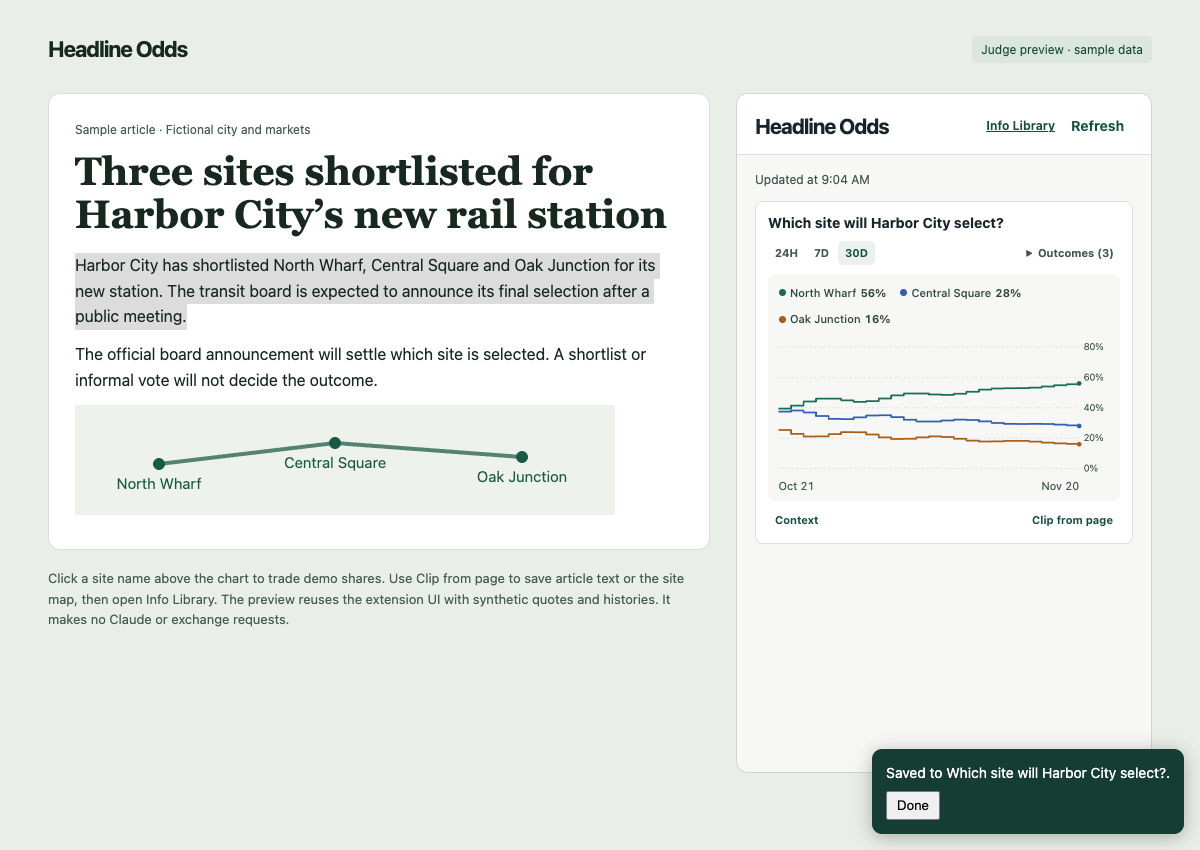
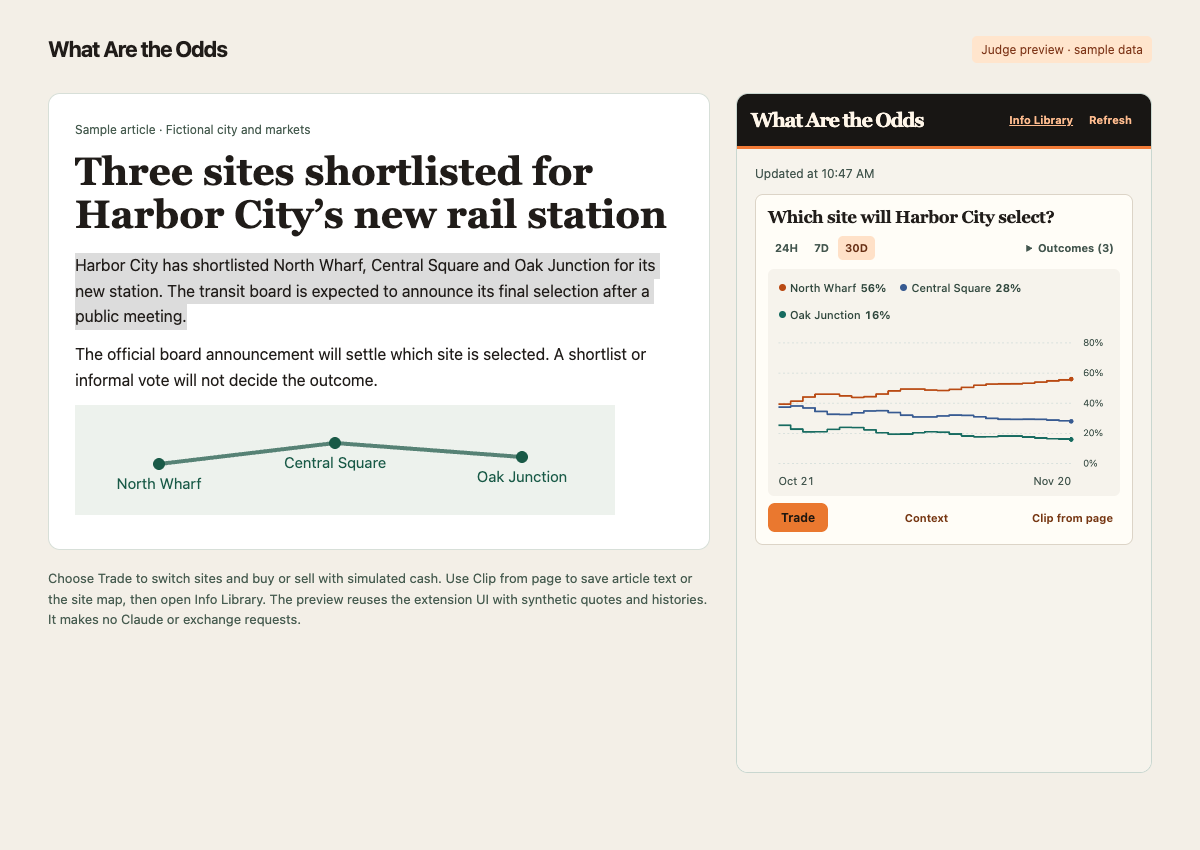
Rename to What Are the Odds and add a compact switchable trade panel

diff --git a/popup.js b/popup.js
@@ -88,10 +88,7 @@ function updateChart(slot) {
     const button = element('button', '', 'legend-button');
     button.title = 'Trade · ' + label;
     button.append(name, odds);
-    button.onclick = () => {
-      slot.tradeItem = item;
-      tradeTicket(slot.ticket, slot.marketKey, item, price, slot.marketTitle);
-    };
+    button.onclick = () => slot.openTrade(item);
     row.append(button);
     return row;
   }));
@@ -101,7 +98,6 @@ function updateChart(slot) {
   else if (waiting && !hasLine) chart.textContent = 'Loading price history…';
   else renderChart(chart, lines, period);
 
-  if (!selected.includes(slot.tradeItem)) slot.ticket.hidden = true;
   slot.latest.hidden = !selected.length;
   chart.setAttribute('aria-busy', String(waiting));
 }
@@ -254,7 +250,34 @@ function renderMarket(market, histories, fetchedAt) {
   contextButton.setAttribute('aria-controls', back.id);
   contextButton.setAttribute('aria-expanded', 'false');
   const source = link('View source ↗', market.source);
-  footer.append(contextButton);
+  const trade = element('button','Trade','trade-toggle');
+  ticket.id = 'trade-' + market.id;
+  trade.setAttribute('aria-controls',ticket.id);
+  trade.setAttribute('aria-expanded','false');
+  const closeTrade = () => {
+    ticket.hidden = true;
+    trade.setAttribute('aria-expanded','false');
+    trade.focus({preventScroll:true});
+  };
+  slot.openTrade = item => {
+    for (const other of chartSlots.values()) {
+      if (other !== slot && !other.ticket.hidden) {
+        other.ticket.hidden = true;
+        other.tradeButton.setAttribute('aria-expanded','false');
+      }
+    }
+    slot.tradeItem = item;
+    const price = item.quote ?? rangeData(slot, DEFAULT_RANGE).points[item.key]?.at(-1)?.[1];
+    tradeTicket(ticket, marketKey, item, price, series, slot.openTrade, closeTrade);
+    trade.setAttribute('aria-expanded','true');
+  };
+  trade.onclick = () => {
+    if (ticket.hidden) slot.openTrade(slot.tradeItem || series.find(item => item.selected) || series[0]);
+    else closeTrade();
+  };
+  slot.tradeButton = trade;
+  trade.disabled = !series.length;
+  footer.append(trade,contextButton);
   const clip = element('button', 'Clip from page', 'context-button');
   clip.onclick = async () => {
     try {
@@ -271,7 +294,7 @@ function renderMarket(market, histories, fetchedAt) {
   };
   footer.append(clip);
   if (source) footer.append(source);
-  front.append(controls, plot, ticket, footer);
+  front.append(controls, plot, footer, ticket);
   contexts.bind({ card, front, back, contextButton, backButton, prepareContext: () => {
     if (!back.childElementCount) renderContext(market, back, backButton, source);
   } });

diff --git a/demo/index.html b/demo/index.html
@@ -3,15 +3,15 @@
 <head>
   <meta charset="utf-8">
   <meta name="viewport" content="width=device-width, initial-scale=1">
-  <title>Headline Odds | Judge Demo</title>
+  <title>What Are the Odds | Judge Demo</title>
   <style>
-    :root{font:16px/1.6 system-ui,sans-serif;color:#172821;background:#e9eee9}
+    :root{font:16px/1.6 system-ui,sans-serif;color:#201c19;background:#f3efe7}
     *{box-sizing:border-box}
     body{margin:0}
     .shell{max-width:1160px;margin:auto;padding:32px 28px}
     .demo-header{display:flex;align-items:center;justify-content:space-between;gap:16px;margin-bottom:26px}
     .brand{font-size:22px;font-weight:700;letter-spacing:-.04em}
-    .badge{font-size:12px;color:#164839;background:#dbe7de;border-radius:5px;padding:4px 9px}
+    .badge{font-size:12px;color:#7d3518;background:#ffe5cd;border-radius:5px;padding:4px 9px}
     .grid{display:grid;grid-template-columns:minmax(0,1fr) minmax(0,416px);gap:26px;align-items:start}
     article{padding:26px;border:1px solid #d7dfd8;background:#fff;border-radius:12px}
     article h1{font:600 clamp(25px,4vw,39px)/1.1 Georgia,serif;margin:6px 0 16px}
@@ -24,7 +24,7 @@
 </head>
 <body>
   <main class="shell">
-    <header class="demo-header"><div class="brand">Headline Odds</div><span class="badge">Judge preview · sample data</span></header>
+    <header class="demo-header"><div class="brand">What Are the Odds</div><span class="badge">Judge preview · sample data</span></header>
     <div class="grid">
       <div>
         <article>
@@ -34,9 +34,9 @@
           <p>The official board announcement will settle which site is selected. A shortlist or informal vote will not decide the outcome.</p>
         <img id="station-map" alt="Map of the three shortlisted station sites" style="max-width:100%">
         </article>
-        <p class="directions">Click a site name above the chart to trade demo shares. Use Clip from page to save article text or the site map, then open Info Library. The preview reuses the extension UI with synthetic quotes and histories. It makes no Claude or exchange requests.</p>
+        <p class="directions">Choose Trade to switch sites and buy or sell with simulated cash. Use Clip from page to save article text or the site map, then open Info Library. The preview reuses the extension UI with synthetic quotes and histories. It makes no Claude or exchange requests.</p>
       </div>
-      <iframe title="Working Headline Odds popup preview" src="./popup.html"></iframe>
+      <iframe title="Working What Are the Odds popup preview" src="./popup.html"></iframe>
     </div>
   </main>
 <script type="module" src="./article.js"></script></body>

diff --git a/library.css b/library.css
@@ -7,7 +7,7 @@ h2 { font-size:18px; margin:0 0 12px; }
 .market-tile { display:flex; flex-direction:column; gap:12px; color:inherit; text-decoration:none; }
 .market-tile:hover { border-color:#709684; }
 .market-tile h2 { margin:0; }
-.snapshot { max-width:490px; }
+.snapshot { width:100%; }
 .snapshot small,.meta { color:#52675a; font-size:12px; }
 .legend { display:flex; flex-wrap:wrap; gap:4px 12px; font-size:12px; margin:6px 0; }
 .legend span::before { content:''; display:inline-block; width:7px; height:7px; margin-right:5px; border-radius:50%; background:var(--line); }
@@ -20,3 +20,21 @@ img { display:block; max-width:100%; max-height:380px; margin:8px 0; }
 details { margin:10px 0; }
 summary { cursor:pointer; font-weight:600; }
 .clip { margin-top:12px; padding-top:10px; border-top:1px solid #d9e1dd; }
+main { max-width:1080px; }
+header { color:#8a411e; border-color:#d8cfc1; font-weight:650; }
+.masthead { isolation:isolate; overflow:hidden; position:relative; border-radius:14px; margin:18px 0 24px; padding:clamp(22px,4vw,44px); background:#161411; color:#fff6e8; }
+.masthead h1 { position:relative; margin:0; max-width:85%; font:500 clamp(30px,4.2vw,56px)/1.06 Georgia,serif; letter-spacing:-.045em; text-wrap:balance; }
+.terrain { z-index:-1; position:absolute; right:-4%; bottom:-3%; width:65%; height:100%; margin:0; opacity:.82; mask-image:linear-gradient(90deg,transparent,#000 65%); }
+.market-tile,.brief,.evidence,#clips > .snapshot { box-sizing:border-box; border-radius:12px; padding:clamp(16px,2.4vw,26px); border:1px solid #d9d0c3; background:#fffdf8; }
+.market-tile { border-top:3px solid #c3652e; }
+.market-tile:hover { border-color:#c3652e; }
+.market-tile h2,.brief h2,.evidence h2 { font:600 23px/1.15 Georgia,serif; letter-spacing:-.025em; color:#201b16; }
+#clips > .snapshot { width:100%; }
+.brief h2:not(:first-child) { border-top:1px solid #e4d9cc; padding-top:16px; }
+.market-tile .meta,.snapshot small,.meta { color:#695d50; }
+@media(prefers-reduced-motion:no-preference) {
+  .terrain { animation:drift 13s ease-in-out infinite alternate; }
+  @keyframes drift { to { transform:translate(-3%,4%) scale(1.04); } }
+  .market-tile { transition:transform .18s ease-out,border-color .18s; }
+  .market-tile:hover { transform:translateY(-3px); }
+}

diff --git a/popup.css b/popup.css
@@ -148,3 +148,29 @@ a { color: #145041; }
 .rules-dialog { max-width:90vw; max-height:80vh; border:1px solid #b8c8bd; border-radius:8px; color:inherit; }
 .rules-dialog::backdrop { background:#14271e55; }
 .position-line { margin-top:5px; color:#285843; font-size:12px; font-variant-numeric:tabular-nums; }
+
+/* Warm paper, ink, and a single orange action accent. */
+:root { background:#f6f3ec; color:#211d1a; }
+body > header { background:#181614; color:#fff6e9; border-bottom:3px solid #f27b37; padding:13px 14px; gap:4px; }
+body > header h1 { font:600 20px/1.1 Georgia,serif; letter-spacing:-.065em; }
+body > header .library-link,body > header button.text-button { color:#ffbc8f; font-size:11px; padding:4px; }
+body > header button.text-button:hover:not(:disabled) { background:#40322a; }
+.market { border-color:#dcd4c7; background:#fffdf7; }
+.market h2 { font:600 17px/1.2 Georgia,serif; letter-spacing:-.025em; }
+.market-plot { background:#f6f3ec; }
+button.range-button[aria-pressed=true] { background:#ffe1c8; color:#682f14; }
+button.context-button,a { color:#773814; }
+.trade-toggle,.ticket-actions button:first-child { background:#ea782f; color:#20170f; }
+.trade-toggle { font-size:12px; padding:5px 12px; }
+.trade-toggle:hover:not(:disabled),.ticket-actions button:first-child:hover:not(:disabled) { background:#ff9d60; }
+.trade-ticket { margin:10px 0 0; background:#f7f2ea; border-color:#d6c9bc; }
+.ticket-head label { display:flex; align-items:center; gap:8px; min-width:0; margin:0; flex:1; }
+.ticket-head select { min-width:0; width:100%; font:inherit; color:inherit; border:1px solid #c8baab; padding:5px; border-radius:5px; background:#fffdf8; }
+.ticket-amount input { appearance:textfield; }
+.ticket-amount input::-webkit-inner-spin-button,.ticket-amount input::-webkit-outer-spin-button { appearance:none; margin:0; }
+.ticket-amount input:focus-visible { outline:none; }
+.ticket-amount span:focus-within { border-color:#bc5b23; box-shadow:0 0 0 1px #bc5b23; }
+@media(prefers-reduced-motion:no-preference) {
+  .trade-ticket:not([hidden]) { animation:ticket-in .18s ease-out; }
+  @keyframes ticket-in { from { opacity:0; transform:translateY(-5px); } to { opacity:1; transform:translateY(0); } }
+}

diff --git a/trade.js b/trade.js
@@ -2,10 +2,10 @@ import { demoAccount } from './workspace.js';
 
 const money = new Intl.NumberFormat('en-US', { style:'currency', currency:'USD' });
 
-export function tradeTicket(panel, marketKey, item, price, marketTitle) {
+export function tradeTicket(panel, marketKey, item, price, series, openTrade, closeTrade) {
   panel.hidden = false;
   panel.innerHTML = `
-    <div class="ticket-head"><strong></strong><button class="text-button" aria-label="Close ticket">×</button></div>
+    <div class="ticket-head"><label>Outcome <select></select></label><button class="text-button" aria-label="Close ticket">×</button></div>
     <div class="ticket-sides"><button class="side yes"></button><button class="side no"></button></div>
     <label class="ticket-amount">Amount (USD)<span>$ <input aria-label="Amount in dollars" type="number" min="0.01" step="0.01" inputmode="decimal" placeholder="0.00"></span></label>
     <div class="ticket-actions"><button>Buy</button><button>Sell</button></div>
@@ -19,8 +19,13 @@ export function tradeTicket(panel, marketKey, item, price, marketTitle) {
   const input = find('input');
   const feedback = find('small');
   const positionLine = find('.position-line');
-  find('strong').textContent = /^(yes|no)$/i.test(item.label) ? marketTitle : item.label;
-  find('.text-button').onclick = () => { panel.hidden = true; panel.replaceChildren(); };
+  const select = find('select');
+  series.forEach((outcome,index) => select.add(new Option(outcome.label,String(index),false,outcome === item)));
+  select.onchange = () => {
+    openTrade(series[select.selectedIndex]);
+    panel.querySelector('select').focus();
+  };
+  find('.text-button').onclick = closeTrade;
   const yes = Math.round(price * 10000);
   const quoted = Number.isFinite(price) && yes > 0 && yes < 10000;
   let side = 0;
@@ -40,6 +45,7 @@ export function tradeTicket(panel, marketKey, item, price, marketTitle) {
       button.disabled = busy;
     });
     input.disabled = busy;
+    select.disabled = busy;
     const shares = account?.positions[position()] || 0;
     positionLine.hidden = !shares;
     if (shares) {

diff --git a/library.html b/library.html
@@ -1,5 +1,5 @@
 <!doctype html>
 <html lang="en"><head><meta charset="utf-8"><meta name="viewport" content="width=device-width,initial-scale=1">
-<title>Info Library · Headline Odds</title><link rel="stylesheet" href="popup.css"><link rel="stylesheet" href="library.css"></head>
-<body><main><header><small>Headline Odds</small><a href="library.html" id="back" hidden>← All markets</a></header>
-<h1>Info Library</h1><section id="clips" aria-live="polite"></section></main><script type="module" src="library.js"></script></body></html>
+<title>Info Library · What Are the Odds</title><link rel="stylesheet" href="popup.css"><link rel="stylesheet" href="library.css"></head>
+<body><main><header><small>What Are the Odds</small><a href="library.html" id="back" hidden>← All markets</a></header>
+<div class="masthead"><canvas class="terrain" aria-hidden="true" width="640" height="192"></canvas><h1>Info Library</h1></div><section id="clips" aria-live="polite"></section></main><script type="module" src="terrain.js"></script><script type="module" src="library.js"></script></body></html>

diff --git a/library.js b/library.js
@@ -35,7 +35,7 @@ function chart(market) {
     box.append(make('small','No chart saved with this clipping.'));
     return box;
   }
-  box.append(make('small',market.venue + ' · ' + market.period + ' · Snapshot ' + dates.format(market.at)));
+  box.append(make('small',market.period + ' · Snapshot ' + dates.format(market.at)));
   const legend = make('div','','legend');
   for (const line of market.lines) {
     const label = make('span',line.label + ' ' + formatOdds(line.price ?? line.points.at(-1)?.[1]));
@@ -116,6 +116,11 @@ function detail(market,clips) {
     const row = make('li');
     row.id = 'source-' + id;
     row.append(link(article || url,url));
+    sourceList.append(row);
+  }
+  if (market.source) {
+    const row = make('li');
+    row.append(link('Market data · ' + market.venue,market.source));
     sourceList.append(row);
   }
   summary.append(make('h2','Sources'),sourceList);

diff --git a/terrain.js b/terrain.js
@@ -1,0 +1,15 @@
+// Small printed bands form a landscape, separate from the odds chart below.
+const canvas = document.querySelector('.terrain');
+const ctx = canvas.getContext('2d');
+const colors = ['#582818','#853518','#b34517','#df6222','#ff9347'];
+for (let layer = 0; layer < colors.length; layer++) {
+  for (let x = 0; x < canvas.width; x += 4) {
+    const crest = 1 - Math.abs(Math.sin(x / 166 + layer * 0.32));
+    const height = 42 + layer * 26 + crest * 59 + Math.sin(x / 27 + layer) * 7;
+    const top = Math.round(height / 3) * 3;
+    ctx.fillStyle = '#151311';
+    ctx.fillRect(x,top,4,canvas.height-top);
+    ctx.fillStyle = colors[layer];
+    for (let y = top; y < canvas.height; y += 4) ctx.fillRect(x,y,3,2);
+  }
+}

diff --git a/chart.js b/chart.js
@@ -3,7 +3,7 @@ const date = new Intl.DateTimeFormat(undefined, { month: 'short', day: 'numeric'
 const shortDateTime = new Intl.DateTimeFormat(undefined, { month: 'short', day: 'numeric', hour: 'numeric' });
 const time = new Intl.DateTimeFormat(undefined, { hour: 'numeric', minute: '2-digit' });
 
-export const seriesColors = ['#176d56', '#345eb0', '#a85d1b', '#7851a5', '#b43d62'];
+export const seriesColors = ['#b94a13', '#375a91', '#176b60', '#815293', '#ad3e60'];
 
 export function formatOdds(value) {
   if (value == null) return '—';

diff --git a/popup.html b/popup.html
@@ -3,12 +3,12 @@
 <head>
   <meta charset="utf-8">
   <meta name="viewport" content="width=device-width, initial-scale=1">
-  <title>Headline Odds</title>
+  <title>What Are the Odds</title>
   <link rel="stylesheet" href="popup.css">
 </head>
 <body>
   <header>
-    <h1>Headline Odds</h1>
+    <h1>What Are the Odds</h1>
     <div class="header-actions">
       <a class="library-link" target="_blank" rel="noopener" href="/library.html">Info Library</a>
       <button id="refresh" class="text-button" type="button" disabled>Refresh</button>

diff --git a/demo/serve.js b/demo/serve.js
@@ -24,4 +24,4 @@ const server = createServer(async (request, response) => {
     response.writeHead(404).end();
   }
 });
-server.listen(port, '127.0.0.1', () => console.log(`Headline Odds judge preview: http://127.0.0.1:${port}/`));
+server.listen(port, '127.0.0.1', () => console.log(`What Are the Odds judge preview: http://127.0.0.1:${port}/`));

diff --git a/demo/popup.html b/demo/popup.html
@@ -3,7 +3,7 @@
 <head>
   <meta charset="utf-8">
   <meta name="viewport" content="width=device-width, initial-scale=1">
-  <title>Headline Odds | Sample Popup</title>
+  <title>What Are the Odds | Sample Popup</title>
   <link rel="stylesheet" href="../popup.css">
 </head>
 <body>
